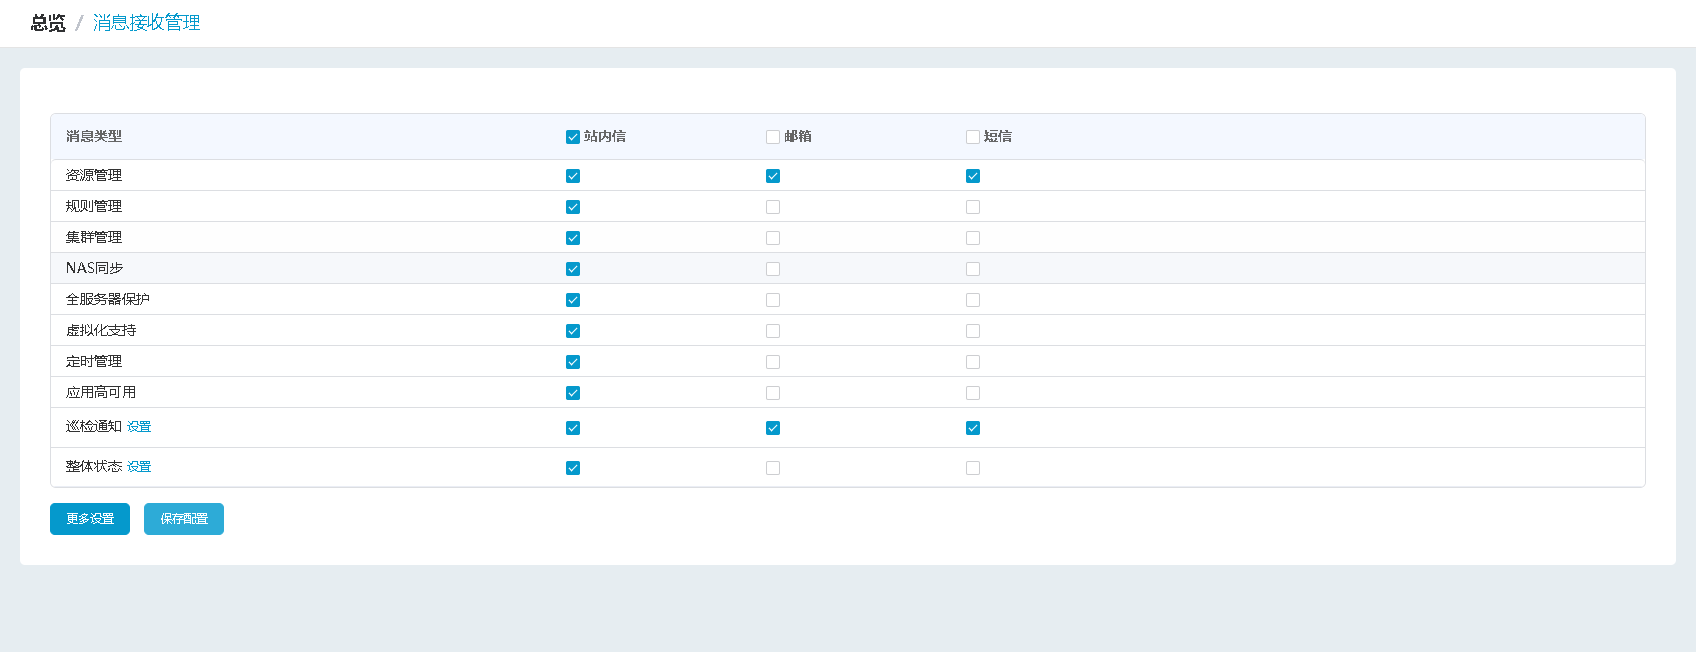
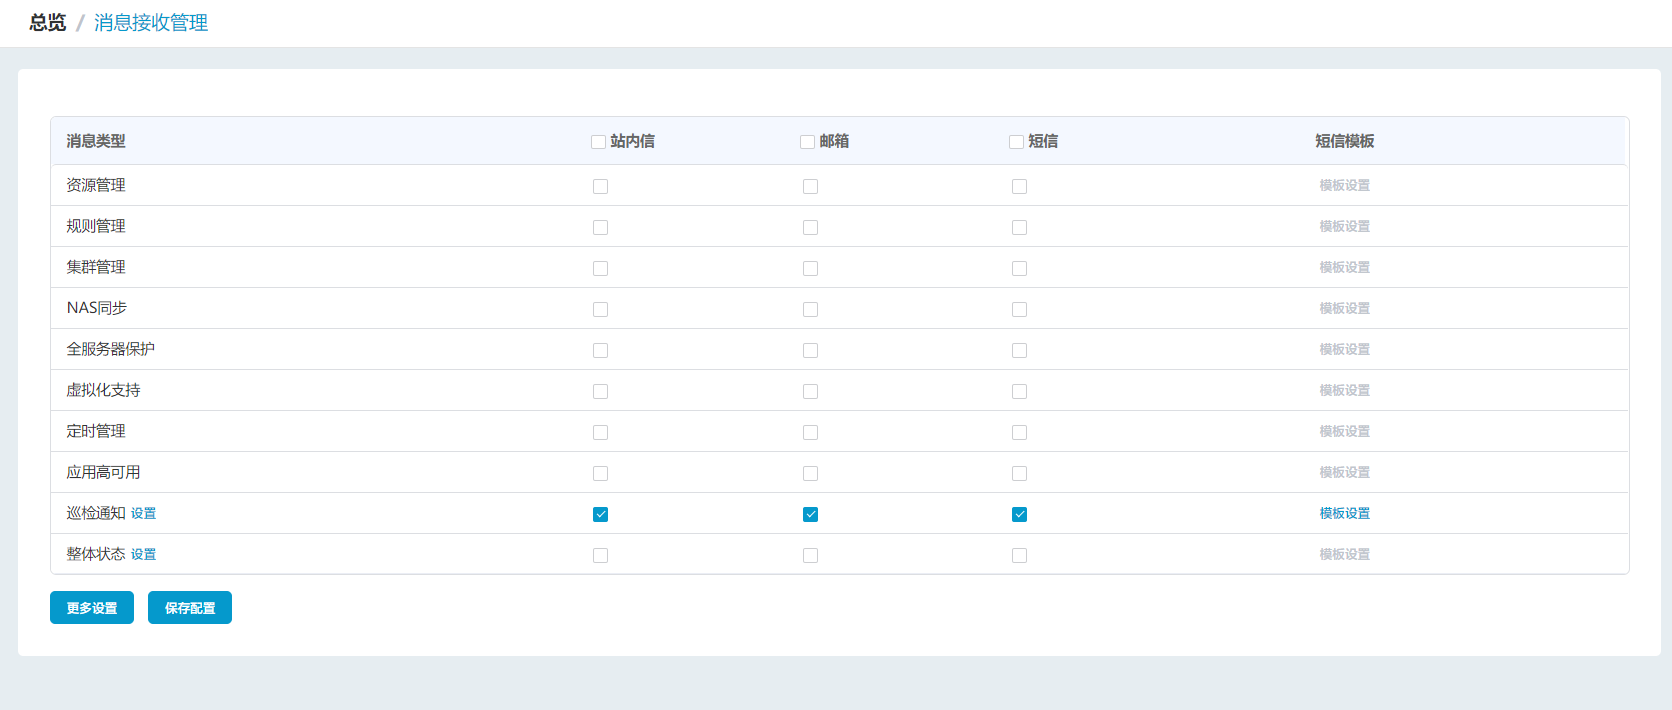
IM: 系统配置、消息通知设置，手册更新支持多模板；

diff --git a/notification/messageManagement.md b/notification/messageManagement.md
@@ -33,3 +33,94 @@
 *  修改联系人： 包括当前用户、普通联系人、巡检通知联系人、整体状态联系人的联系人手机以及邮箱
 
 ![](/assets/v7.0.20181114006.png)
+
+## 短信模板说明
+
+### 短信模板设置
+
+* 勾选“短信”时，短信模板设置为可选状态，点击此键可以在弹出的对话框设置 **每个模块** 的短信模板；
+
+![](/assets/v7.1.20190618164552.png)
+
+* 对于 阿里、华为、东方证券平台：短信模板为必填，内容为模板ID，配置方式见下文 **华为消息通知服务**。
+
+* 对于 其他平台：此项为可选，填短信模板全文，如不填则默认用内置模板发送短信。
+
+* 以图中巡检通知为例：
+
+    * 假设要发送的短信内容是：${username}你好，设置的（${time}）定时巡检提醒时间到了，请安排巡检。
+
+    * 如果是需要在平台上配置模板的短信平台，如阿里：
+
+        1. 先去阿里短信平台的网站上配置模板，并获取到模板ID。
+
+        2. 将模板ID填到这里。
+
+    * 如果是不需要在短信平台上配置模板的，如企信王：
+
+        1. 这里直接填自定义短信格式，如“${username}你好，设置的（${time}）定时巡检提醒时间到了，请安排巡检”。
+
+    * 配置正常则会在设定的时间收到短信：admin 你好，设置的（2019-1-1 11:11）定时巡检提醒时间到了，请安排巡检。
+
+    * 注：无论是在这里填模板全文，还是从短信平台获取的模板ID，其模板内容都需要包含必需的变量，如巡检通知需要包含${username}、${time}两个变量，每个模板所需的变量，会在设置变量时提示（如上图所示）。
+
+### 模板变量说明：
+
+* 通用参数：
+
+    * ${username}：用户名，即节点/规则的创建者。
+    * ${module}：模块名称，如“复制规则”。
+    * ${name}：节点/规则的名称。
+    * ${status}：节点/规则的状态。
+    * ${time}：短信发送的时间 / 巡检通知设定的时间。
+
+* 资源管理（节点/虚拟平台/集群）：
+
+    * ${config_addr}：管理地址。
+    * ${data_addr}：数据地址。
+
+* 规则/任务相关的资源（x代指资源序号，0-3）：
+
+    * ${res_type_x}：资源类型。
+    * ${res_name_x}：资源名称。
+    * ${res_status_x}：资源状态。
+    * ${config_addr_x}：资源管理地址。
+    * ${data_addr_x}：资源配置地址。
+    * ${vm_name}：虚拟平台规则相关的虚机名称。
+    * ${tips}：高可用规则的提示语。
+
+* 整体状态：
+
+    *  ${node}, ${vp}, ${cls}, ${rep_backup}, ${nas}, ${fsp_backup}, ${fsp_move},
+       ${vp_backup}, ${vp_recovery}, ${vp_move}, ${vp_rep}, ${timing_backup}, ${ha},
+    * 这些参数为整体状态各个模块的正常/异常计数，如 3/2 意为 正常 3个，不正常 2个。
+
+### 华为消息通知服务
+
+华为消息通知服务，不是简单的SMS服务。需要先创建一个主题，所有的应用都可以发消息给这个主题，主题会通知到“订阅者”；所以和企业版现有的控制台的SMS以及通知有点不一样，需要在华为的控制台里创建主题并添加订阅。
+
+如下是**华为消息通知服务**设置的主要步骤：
+
+* 先创建一个主题：
+
+    ![](/assets/CatchB8B5%2805-28-18-30-30%29.jpg)
+
+    ![](/assets/Catch0294%2805-28-18-30-30%29.jpg)
+
+* 再创建一个模板，类型选择短信；华为要求同时创建一个协议为Default的同名的模板：
+
+    ![](/assets/Catch8F04%2805-28-18-30-30%29.jpg)
+
+* 再添加订阅，这里协议可以选择短信和邮件以及其他的：
+
+    ![](/assets/Catch0294%2805-28-18-30-30%29.jpg)
+
+### 阿里云消息通知服务
+
+如下是具体的appkey、SecretKey获取:
+
+![](/assets/V6.118042602.png)
+
+如下是签名名称、短信模板ID:
+
+![](/assets/V6.118042603.png)

diff --git a/system_management/sys_settings.md b/system_management/sys_settings.md
@@ -58,35 +58,17 @@
 
 * “短信平台”：目前支持阿里云短信平台、华为消息通知服务、ESK平台（企信王）、太平洋证券OTO、国泰君安、国都证券、东方证券、短信猫。
 
-注：
-
-* 以下涉及的短信模板都需要包含这些变量：
-
-  * ${username}：用户名，即短信中的节点/规则的创建者。
-  * ${module}：模块名称，如“复制规则”。
-  * ${name}：短信中的节点/规则的名称。
-  * ${status}：短信中的节点/规则的状态。
-  * ${relevant_res}：短信中规则的相关资源。
-  * ${time}：短信发送的时间。
-  
-* 示例：
-
-  * 如果模板配置为：${username}你好，${module} 功能的 ${name}，状态：${status}，时间${time}，所用节点/平台：${nodes1}，请登录控制台查看。
-  * 则收到短信为：admin 你好，复制规则 功能的 规则1，状态：停止，时间 2019年1月1日11:11，所用节点/平台：节点1、节点2，请登录控制台查看。
-
 * 阿里云
 
   * “APPKey”：需要在阿里大于/阿里云短信平台注册账号，在管理控制台中的应用管理中获取APPKey。
   * “SecretKey”：阿里大于/阿里云平台中，在管理控制台中的应用管理中获取SecretKey。
   * “签名名称”： 在阿里大于/阿里云的配置管理中短信通知的配置短信签名中获取签名名称。
-  * “短信模板ID”：在阿里大于/阿里云的短信模板ID。
 
 * 华为消息通知服务
 
   * “华为账户名”： 华为账户名（DomainName）不是用户名，获取方法：基本信息界面-&gt;管理我的凭证-&gt;查看“账号名”。
   * “所属区域”： RegionName为cn-north-1、cn-south-1 或者cn-east-2；获取地址：[https://developer.huaweicloud.com/endpoint。](https://developer.huaweicloud.com/endpoint。)
   * “主题的URN”： 主题的URN， 华为云控制台创建，urn串。
-  * “短信模板ID”：华为SMN消息主题模板。
 
 * ESK平台（企信王）、太平洋证券OTO、国泰君安、国都证券
 
@@ -99,7 +81,6 @@
   * “服务地址”： 格式： "SERVER\_IP:SERVER\_PORT"（例如：192.168.1.100:8080）。
   * “用户名”： 东方证券短信平台用户名。
   * “密码”： 东方证券短信平台登录密码。
-  * “短信模板ID”： 东方证券短信平台上配置的短信模板ID。
 
 * 短信猫
 
@@ -107,33 +88,6 @@
   * “波特率”：默认9600，不用修改，短信测试异常可以调整该值。Windows可以在串口属性中设置和查看。
   * 针对无法访问外网的用户，可以使用短信猫来接收短信告警通知。
   * 注：需要在控制机上通过串口连接短信猫设备。短信猫型号：目前仅支持JYC311-232。
-
-**备注：**
-
-华为消息通知服务，不是简单的SMS服务。需要先创建一个主题，所有的应用都可以发消息给这个主题，主题会通知到“订阅者”；所以和企业版现有的控制台的SMS以及通知有点不一样，需要在华为的控制台里创建主题并添加订阅。
-
-如下是**华为消息通知服务**设置的主要步骤：
-
-* 先创建一个主题：
-  ![](/assets/CatchB8B5%2805-28-18-30-30%29.jpg)
-
-![](/assets/Catch0294%2805-28-18-30-30%29.jpg)
-
-* 再创建一个模板，类型选择短信；华为要求同时创建一个协议为Default的同名的模板：
-  ![](/assets/Catch8F04%2805-28-18-30-30%29.jpg)
-
-* 再添加订阅，这里协议可以选择短信和邮件以及其他的：
-  ![](/assets/Catch0294%2805-28-18-30-30%29.jpg)
-
-如下是**阿里云**获取信息
-
-如下是具体的appkey、SecretKey获取:
-
-![](/assets/V6.118042602.png)
-
-如下是签名名称、短信模板ID:
-
-![](/assets/V6.118042603.png)
 
 ### 特殊参数 {#-6}
 
